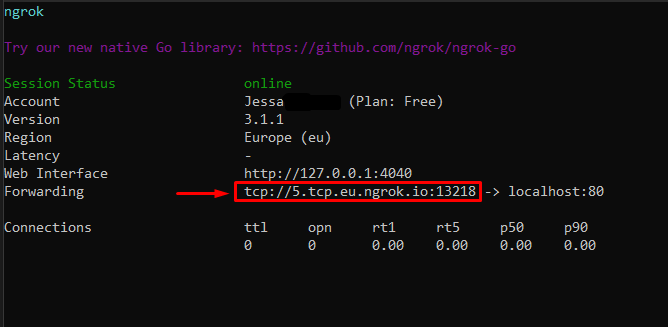
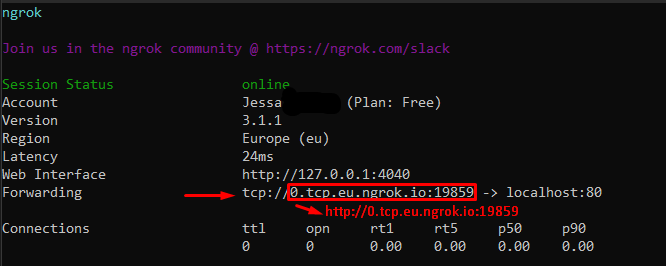
Updated documentation

diff --git a/README.md b/README.md
@@ -1,6 +1,17 @@
 # VRC_control
+
 Control your avatar's parameters through a web-application
 
+- [Features](#features)
+- [How to install](#how-to-install)
+    - [Program](#executable-only)
+    - [Cloning](#repo-clone)
+- [How to use](#how-to-use)
+- [Sharing control](#sharing-control-with-other-people)
+    - [Port forwarding](#port-forwarding)
+    - [Ngrok](#ngrok-program)
+- [Known problems](#known-problems)
+- [TODO](#todo)
 
 ## Features
 
@@ -33,6 +44,11 @@ ___
 
 ## How to use
 
+***NOTE***
+***Before you can use the program you will have to turn on OSC in vrchat***
+
+![](images/osc.gif)
+
 Upon starting the program, you will be prompted with which avatar you would like to choose within the terminal:
 ![](images/loaded.png)
 
@@ -55,23 +71,27 @@ ___
 
 You will have to either open a port on your router, or use a program to open your local network to others.
 
-#### Port Forwarding
+So you have two possibilities:
+
+- Ngrok
+- Portforwarding
+
+### Port Forwarding
 
 To open a port on your router, you will have to port-forward the tcp port 80 on your router.
 Since it works differently for each router, i cannot make a standardized guide for this, you can find this on the internet. 
 
 Search up `[router type] port-forwarding` (where `[router type]` is your router) on google or youtube.
 
-#### Ngrok Program
+### Ngrok Program
 
 I personally like to use [ngrok](https://ngrok.com/download). 
 Which allows me to open a specific port from my computer to the internet using a simple to use program.
 
 **Note:**
-***You don't need to sign up for Ngrok to use it, however the session will expire in 2 hours if you do not, forcing you to restart the session. Signing up with a free account prevents this.***
+***You will have to login to the ngrok services to use it. It is free and can have it running indefinitely. However, you can only run 1 instance of it per account: [ngrok setup](ngrok_setup.md)***
 
-Once installed, you can open a new commandline (`windows key + r` and type `cmd`).
-When your commandline has opened, you can type `ngrok tcp 80` to open port 80 to others (which is what we need now).
+Once you have finished with the [ngrok setup](ngrok_setup.md), you can open the ngrok exe and type `ngrok tcp 80` to open port 80 to others (which is what we need now).
 
 Once your session has started, you can share the url with other people. Replace `tcp://` with `http://`
 ![](images/ngrok.png)
